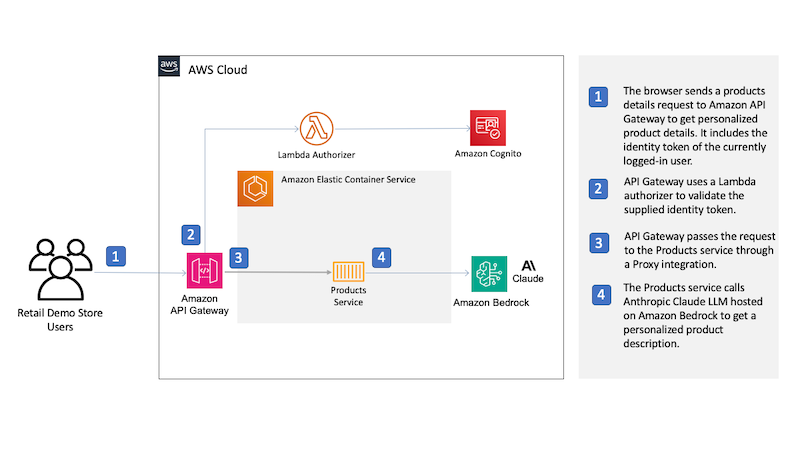
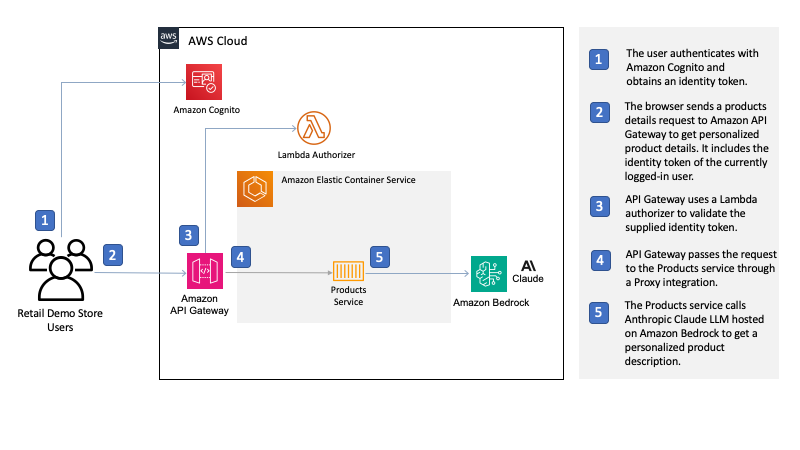
Updates to authentication and architecture diagram
- Authentication only gets signing key if verification is set to true
- Updates to architecture diagram for Bedrock integration

diff --git a/src/products/src/products_service/auth.py b/src/products/src/products_service/auth.py
@@ -20,10 +20,10 @@ class Auth:
 
     def auth_user(self, id_token: str) -> Dict[str, Any]:
         try:
-            signing_key = self.jwks_client.get_signing_key_from_jwt(id_token)            
+            signing_key = self.jwks_client.get_signing_key_from_jwt(id_token).key if self.verify else None
             data = jwt.decode(
                 id_token,
-                signing_key.key,
+                signing_key,
                 algorithms=["RS256"],
                 audience=self.audience,
                 issuer=self.issuer,
